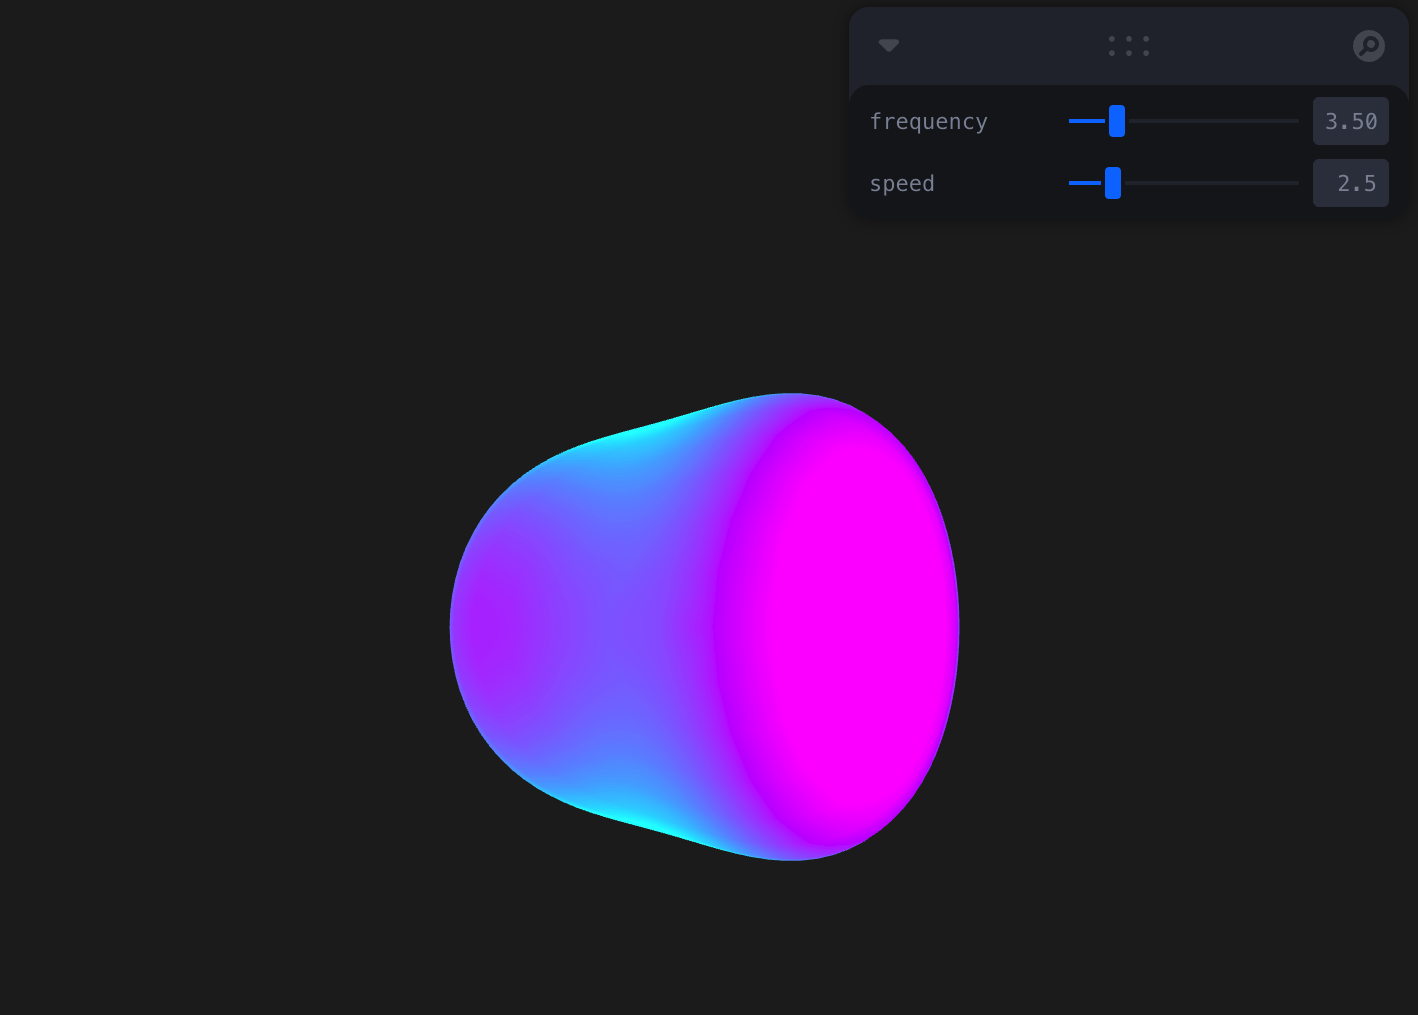
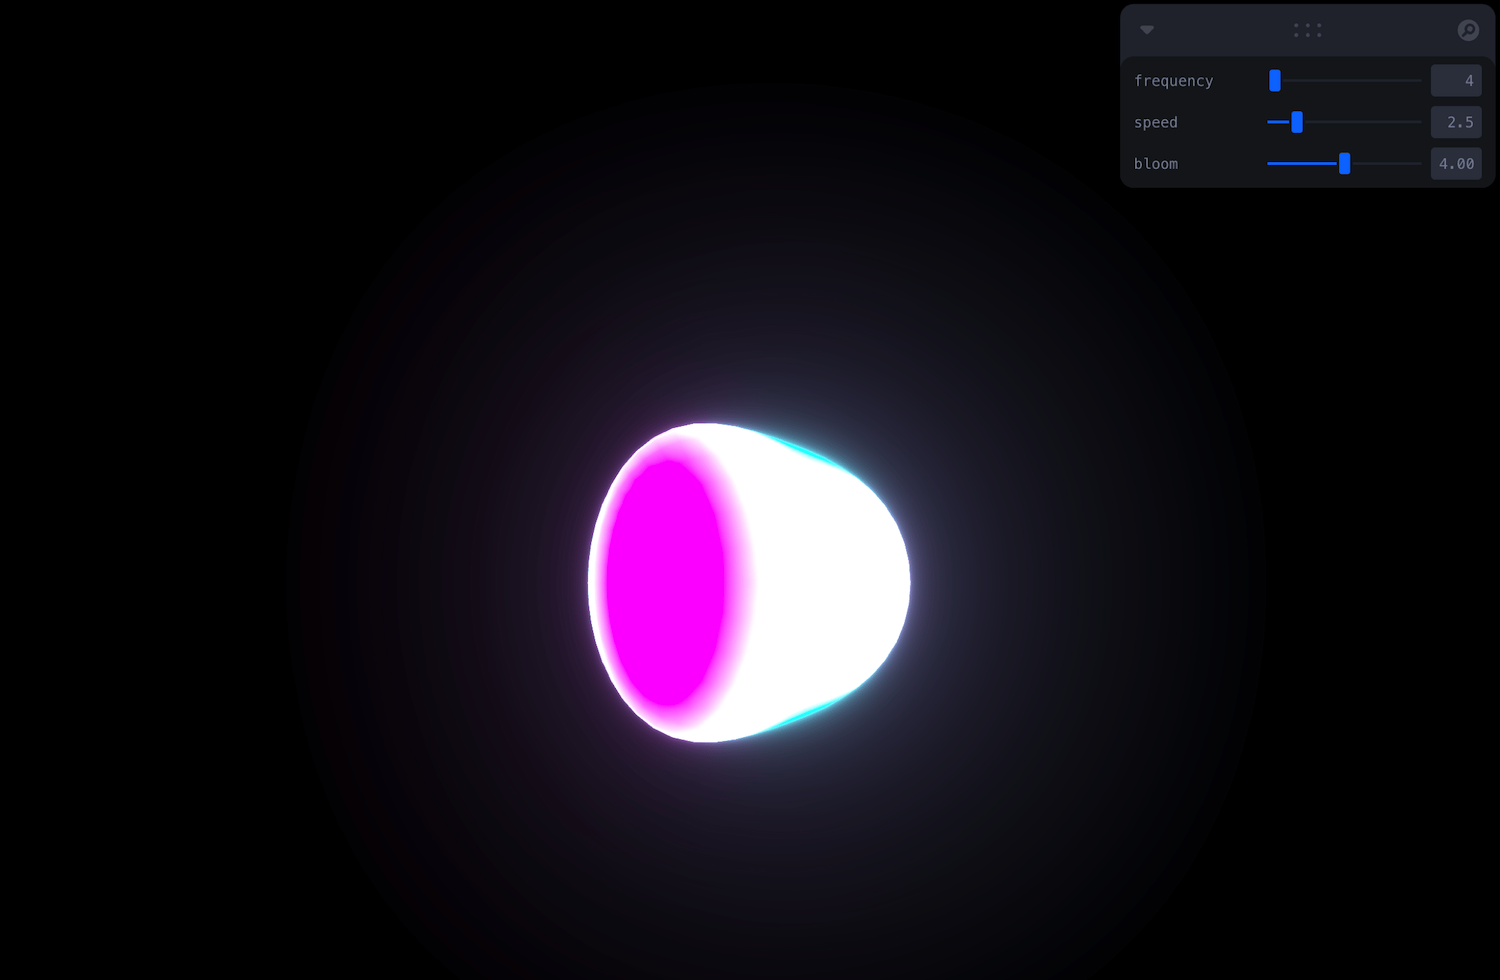
added post-processing

diff --git a/src/MeshExample.tsx b/src/MeshExample.tsx
@@ -2,15 +2,18 @@ import * as THREE from 'three';
 import { useRef } from 'react';
 import { extend, useFrame } from '@react-three/fiber';
 import { useControls } from 'leva';
+import { Bloom, EffectComposer, ToneMapping } from '@react-three/postprocessing';
 import ShaderMaterialExample from './ShaderMaterialExample';
+
 extend({ ShaderMaterialExample });
 
 const SphereExample = () => {
 	const materialref = useRef<THREE.ShaderMaterial>(null);
 
-	const { frequency, speed } = useControls({
-		frequency: { value: 3.5, min: 2, max: 10.0 },
-		speed: { value: 2.5, min: 0, max: 15.0 },
+	const { frequency, speed, bloom } = useControls({
+		frequency: { value: 3.5, min: 2, max: 100.0 },
+		speed: { value: 2.5, min: 0, max: 15 },
+		bloom: { value: 4, min: 0, max: 8 },
 	});
 
 	useFrame(({ clock }) => {
@@ -21,15 +24,27 @@ const SphereExample = () => {
 	});
 
 	return (
-		<mesh rotation={[Math.PI * 0.5, 0, 0]}>
-			<sphereGeometry args={[1, 100]} />
-			<shaderMaterialExample
-				key={ShaderMaterialExample.key}
-				ref={materialref}
-				uFrequency={frequency}
-				uSpeed={speed}
-			/>
-		</mesh>
+		<>
+			<mesh rotation={[Math.PI * 0.5, 0, 0]}>
+				<sphereGeometry args={[1, 50]} />
+				<shaderMaterialExample
+					key={ShaderMaterialExample.key}
+					ref={materialref}
+					uFrequency={frequency}
+					uSpeed={speed}
+				/>
+			</mesh>
+			<EffectComposer>
+				<Bloom
+					mipmapBlur
+					intensity={bloom}
+					luminanceThreshold={0.23}
+					luminanceSmoothing={0.01}
+					opacity={0.7}
+				/>
+				<ToneMapping adaptive={true} />
+			</EffectComposer>
+		</>
 	);
 };
 

diff --git a/src/index.css b/src/index.css
@@ -20,7 +20,7 @@
 
 body {
 	margin: 0;
-	background-color: #242424;
+	background: #000;
 }
 
 .canvas-container {

diff --git a/README.md b/README.md
@@ -28,14 +28,15 @@ This boilerplate is powered by:
 - [@react-three/drei](https://github.com/pmndrs/drei) - Collection of useful helpers and abstractions
 - [@react-three/postprocessing](https://github.com/pmndrs/react-postprocessing) - Post-processing effects for React Three Fiber
 - [leva](https://github.com/pmndrs/leva) - React-first GUI controls for creative coding
+- [three-stdlib](https://github.com/pmndrs/three-stdlib) - Three.js standard library
 
 ## Shader Example
 
-Includes a basic shader example to get you started with GLSL in React Three Fiber. The example demonstrates:
+Includes a complete shader example to get you started with GLSL in React Three Fiber. The example demonstrates:
 - Vertex and fragment shader implementation
 - Uniform and varying handling
 - Time-based animations
-- Texture coordinates (uv)
+- Post-processing implementation
 
 ## Getting Started
 
@@ -52,4 +53,4 @@ npm run dev
 pnpm dev
 
 ```
-`react-three-fiber` `typescript` `vite` `threejs` `r3f` `glsl` `shaders` `3d` `webgl` `drei` `react` `postprocessing` `leva` `starter-kit` `boilerplate` `template` `vite-plugin-glsl`
+`react-three-fiber` `typescript` `vite` `threejs` `r3f` `glsl` `shaders` `3d` `webgl` `drei` `react` `postprocessing` `leva` `starter-kit` `boilerplate` `template` `vite-plugin-glsl` `three-stdlib`
